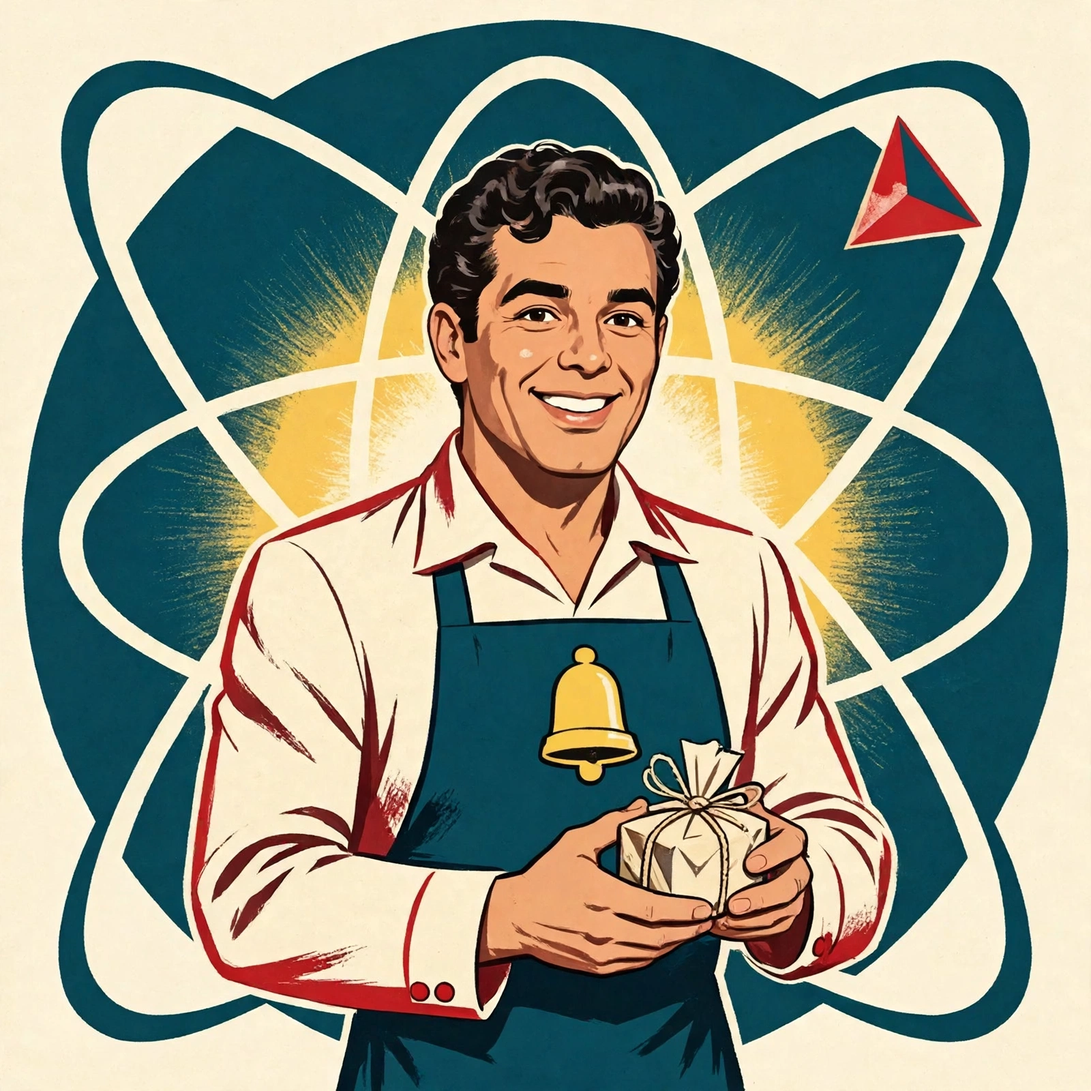
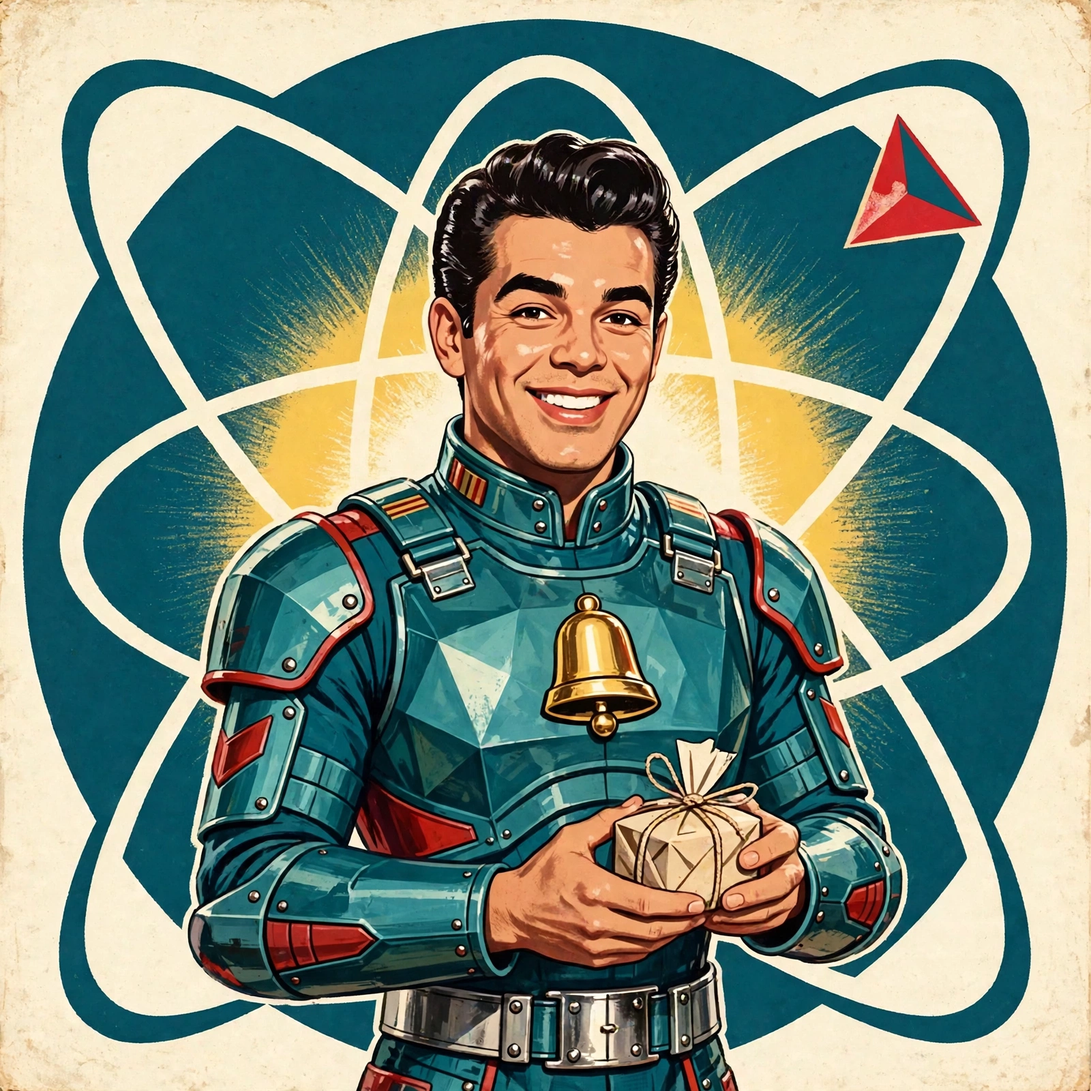
Retro portraits live: all 24 Photons and Atoms in 1950s armor (SW v40)
Swap public/photons/*.png and public/atoms/*.png for the staged
1950s retro-futuristic armor set (1600x1600 PNGs, young faces,
fifties hair, faceted deep-teal armor, chrome trim, red piping),
plus the large-Portrait hero UI from the photon-large-portrait
branch (rebased, cherry-picked cleanly). READMEs updated to
describe the new set, including the known corps-line inconsistency
(Hazel SPACE POSTAL CORPS vs Mabel SPACE MAIL CORPS).

Gates: typecheck clean, build clean (main.js 169.92 KB),
ironclad PASSED, test-auth 102/102, test-render 28/29 (known
pre-existing mock-Gemini SSE failure).

diff --git a/public/sw.js b/public/sw.js
@@ -125,7 +125,7 @@
 // Start My Day Stripe links. The cache bump makes existing installs
 // fetch the new main.js and the new sputnik.jpg instead of serving the
 // cached ones.
-const CACHE = "prism5-v39";
+const CACHE = "prism5-v40";
 const SHELL = ["/", "/index.html", "/styles.css", "/main.js", "/manifest.json", "/opening-animation-v3.mp4", "/opening-v5-poster.jpg", "/chat-bg/bg-rocket.jpg", "/chat-bg/bg-helmets.jpg", "/chat-bg/bg-starburst.jpg", "/chat-bg/bg-robot.jpg", "/chat-bg/bg-saucer.jpg", "/chat-bg/bg-raygun.jpg", "/chat-bg/bg-car.jpg", "/chat-bg/bg-pilot.jpg", "/chat-bg/bg-moonbase.jpg", "/chat-bg/bg-diner.jpg", "/chat-bg/bg-launchpad.jpg", "/chat-bg/bg-spacestation.jpg"];
 
 self.addEventListener("install", (event) => {

diff --git a/public/photons/README.md b/public/photons/README.md
@@ -9,22 +9,19 @@ Drop a real portrait PNG here, one per Photon, named exactly:
 Square, at least 256x256. The app uses the PNG when it exists and falls
 back to a generated placeholder tile (initial + triangle) when it does not.
 
-All twelve are in place (Nov 17, 2026): eleven are new 1950s
-pulp-poster portraits showing a genuine range of races and
-backgrounds, each keeping its role's costume, emblem, and prop —
-Prism (Prism 5 herself — the approved Jeeves avatar face: Florence
-Pugh base, fair freckled skin, spiky blue-black faux hawk, vibrant blue
-eyes, red lipstick; same still, crystalline bodysuit, light beam), Juniper
-(Latina woman, juniper emblem, wooden box), Encore (Black woman,
-mandolin), Zero (East Asian person, gold "O", letters), Proof
-(South Asian woman, magnifying glass, checkmark), Blueprint (Black
-woman, braided ponytail, blueprints and tool belt), Calendra (East
-Asian older woman, calendar), Shopbell (Latino man, bell and apron,
-parcel), Keystone (Middle Eastern older person, key emblem), Vesper
-(Latina woman, crescent moon and stars), Goldstar (South Asian man,
-gold star and prize ribbon). Barnstormer is unchanged — the aviator
-Neil already loves, kept as the standard. The new portraits are
-1600x1600 PNGs (the originals were 640x640). If a portrait is ever
-replaced, drop the new file here with the same name and redeploy;
-the service-worker cache version must be bumped too, or existing
-installs will keep serving the cached portrait.
+All twelve are in place (Nov 19, 2026): 1950s retro-futuristic armor
+portraits — faceted deep-teal armor with chrome trim and red piping,
+young faces with fifties hair, each keeping its role's costume, emblem,
+and prop — Prism (Prism 5 herself — the approved Jeeves avatar face:
+fair freckled skin, blue eyes, red lipstick, dark blue fifties pompadour;
+gold triangle emblem, light beam; the original, with no rank bars or
+serial), Juniper (juniper emblem, wooden box), Encore (mandolin), Zero
+(gold "O", letters), Proof (magnifying glass, checkmark), Blueprint
+(braided ponytail, blueprints and tool belt), Calendra (calendar),
+Shopbell (bell and apron, parcel), Keystone (key emblem), Vesper
+(crescent moon and stars), Goldstar (gold star and prize ribbon),
+Barnstormer (aviator). The large 160px hero portrait at the top of
+Photon chat threads uses these same files. The new portraits are
+1600x1600 PNGs. If a portrait is ever replaced, drop the new file here
+with the same name and redeploy; the service-worker cache version must
+be bumped too, or existing installs will keep serving the cached portrait.

diff --git a/public/atoms/README.md b/public/atoms/README.md
@@ -10,16 +10,16 @@ Square, at least 256x256. The app uses the PNG when it exists and falls
 back to a generated placeholder tile (initial + triangle) when it does not.
 
 All twelve are in place (Nov 19, 2026): 1950s pulp-poster portraits in
-the same family as the Photon portraits — painted with real depth and
-texture on aged cream paper, teal/red/butter-yellow palette, a genuine
-range of races and backgrounds, each keeping its role's costume, emblem,
-and prop — Mabel (Black woman, letters and red pencil), Hazel (East
-Asian older woman, pocket diary), Willa (Latina woman, morning paper
-and mug), Ruby (South Asian woman, telephone handset), June (young
-person, lantern), Sadie (person with an hourglass), Bea (Latina older
-woman, journal and lamp), Flora (Black woman, apron and house key),
-Pearl (South Asian man, ledger book), Iris (Middle Eastern woman, card
-catalog box), Cleo (Latino man, clipboard), Nora (older woman, compass).
-If a portrait is ever replaced, drop the new file here with the same
-name and redeploy; the service-worker cache version must be bumped too,
-or existing installs will keep serving the cached portrait.
+the same family as the Photon portraits — faceted deep-teal armor with
+chrome trim and red piping, young faces with fifties hair, each keeping
+its role's costume, emblem, and prop, with gold rank bars and serial
+N-01..N-12 — Mabel (letters and red pencil), Hazel (pocket diary),
+Willa (morning paper and mug), Ruby (telephone handset), June (lantern),
+Sadie (hourglass), Bea (journal and lamp), Flora (apron and house key),
+Pearl (ledger book), Iris (card catalog box), Cleo (clipboard), Nora
+(compass). Known inconsistency (Nov 19, 2026): the corps line varies —
+Hazel reads "SPACE POSTAL CORPS", Mabel reads "SPACE MAIL CORPS" —
+slated for a later polish pass. If a portrait is ever replaced, drop
+the new file here with the same name and redeploy; the service-worker
+cache version must be bumped too, or existing installs will keep
+serving the cached portrait.
